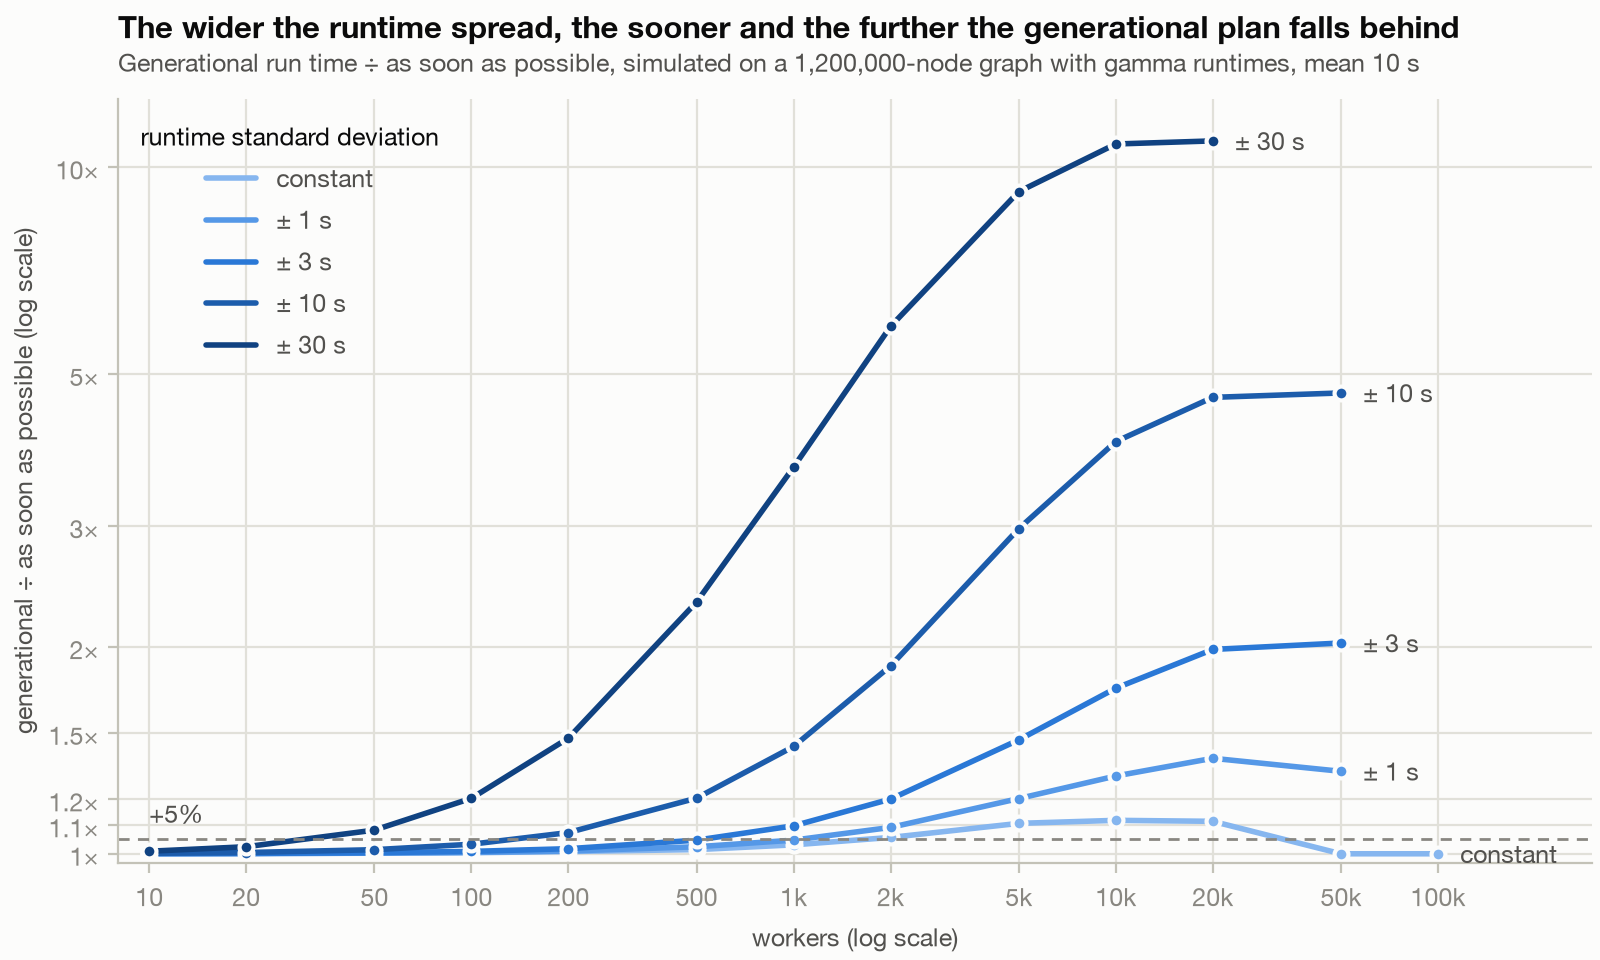
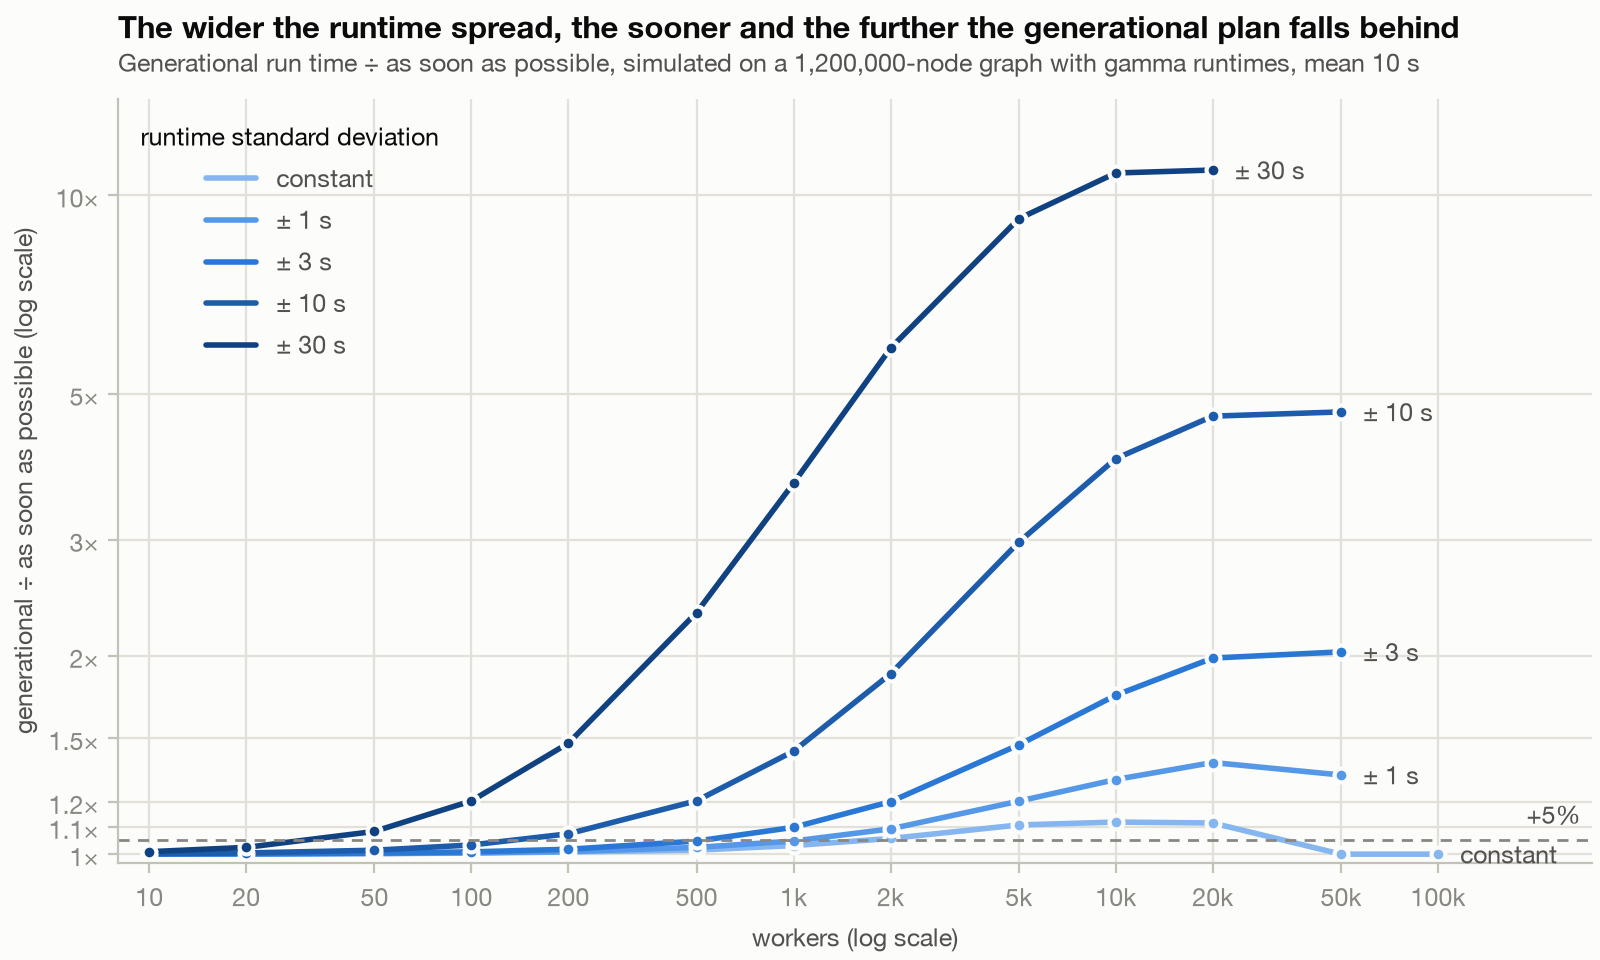
runtime spread on smaller graphs, scaling note

diff --git a/src/dag_experiments/visualization/evaluation.py b/src/dag_experiments/visualization/evaluation.py
@@ -1,6 +1,7 @@
 """Charts of the evaluation: a compiled generational plan versus evaluating at runtime."""
 
 import argparse
+from dataclasses import replace
 from pathlib import Path
 
 import matplotlib
@@ -8,6 +9,7 @@ import matplotlib
 matplotlib.use("Agg")
 
 import matplotlib.pyplot as plt
+from matplotlib.axes import Axes
 from matplotlib.figure import Figure
 from matplotlib.lines import Line2D
 from matplotlib.ticker import FixedLocator, FuncFormatter, NullLocator
@@ -15,6 +17,7 @@ from matplotlib.ticker import FixedLocator, FuncFormatter, NullLocator
 from dag_experiments.evaluation.simulation import Makespans, gamma_runtimes, worker_sweep
 from dag_experiments.synthetic.generator import BASELINE, generate
 from dag_experiments.visualization.style import (
+    INK,
     INK_MUTED,
     INK_SECONDARY,
     SURFACE,
@@ -26,41 +29,19 @@ SPREAD_MEAN = 10.0
 SPREAD_SDS: list[float] = [0, 1, 3, 10, 30]
 # Ordinal steps of one blue, light to dark: the wider the spread, the darker the line.
 SPREAD_COLORS = ["#86b6ef", "#5598e7", "#2a78d6", "#1c5cab", "#104281"]
+SMALLER_SIZES = [400_000, 40_000]
+# Shared by every runtime spread chart, so charts of different graph sizes compare directly
+WORKER_RANGE = (8, 300_000)
+RATIO_RANGE = (0.97, 14)
 
 
 def runtime_spread(sweeps: dict[float, list[Makespans]], num_nodes: int, mean: float) -> Figure:
     fig, ax = plt.subplots(figsize=(8, 4.8), layout="constrained")
-    labels = {sd: "constant" if sd == 0 else f"± {sd:g} s" for sd in sweeps}
-    for color, (sd, sweep) in zip(SPREAD_COLORS, sweeps.items()):
-        workers = [point.workers for point in sweep]
-        ratios = [point.generational / point.asap for point in sweep]
-        ax.plot(workers, ratios, color=color, marker="o", markersize=5, markeredgecolor=SURFACE,
-                markeredgewidth=1.5)
-        ax.annotate(labels[sd], (workers[-1], ratios[-1]), (8, 0), textcoords="offset points",
-                    va="center", color=INK_SECONDARY)
-
-    first_workers = min(sweep[0].workers for sweep in sweeps.values())
-    last_workers = max(sweep[-1].workers for sweep in sweeps.values())
-    ax.axhline(1.05, color=INK_MUTED, linewidth=1, linestyle=(0, (4, 3)))
-    ax.annotate("+5%", (first_workers, 1.05), (0, 4), textcoords="offset points",
-                va="bottom", color=INK_SECONDARY)
-    ax.set_xscale("log")
-    ax.set_xlim(first_workers * 0.8, last_workers * 3)
-    ax.xaxis.set_major_locator(FixedLocator(_worker_ticks(first_workers, last_workers)))
-    ax.xaxis.set_major_formatter(FuncFormatter(lambda value, _: _compact(value)))
-    ax.xaxis.set_minor_locator(NullLocator())
-    # A log scale shows the small gaps where the lines start to part as clearly as the large ones.
-    top = max(point.generational / point.asap for sweep in sweeps.values() for point in sweep) * 1.15
-    ax.set_yscale("log")
-    ax.set_ylim(0.97, top)
-    ax.yaxis.set_major_locator(FixedLocator([t for t in (1, 1.1, 1.2, 1.5, 2, 3, 5, 10, 20) if t <= top]))
-    ax.yaxis.set_major_formatter(FuncFormatter(lambda value, _: f"{value:g}×"))
-    ax.yaxis.set_minor_locator(NullLocator())
-    ax.set_xlabel("workers (log scale)")
+    _draw_spread(ax, sweeps, _worker_ticks(10, 100_000))
     ax.set_ylabel("generational ÷ as soon as possible (log scale)")
     # Plain lines in the legend: with the markers' rings they would look dashed.
     ax.legend(
-        handles=[Line2D([], [], color=color, label=labels[sd]) for color, sd in zip(SPREAD_COLORS, sweeps)],
+        handles=[Line2D([], [], color=color, label=_spread_label(sd)) for color, sd in zip(SPREAD_COLORS, sweeps)],
         title="runtime standard deviation",
         loc="upper left",
     )
@@ -71,6 +52,52 @@ def runtime_spread(sweeps: dict[float, list[Makespans]], num_nodes: int, mean: f
         f"with gamma runtimes, mean {mean:g} s",
     )
     return fig
+
+
+def smaller_graphs(sweeps_by_size: dict[int, dict[float, list[Makespans]]]) -> Figure:
+    fig, axes = plt.subplots(1, len(sweeps_by_size), figsize=(10, 3.8), layout="constrained", sharey=True)
+    for ax, (num_nodes, sweeps) in zip(axes, sweeps_by_size.items()):
+        # Only powers of ten fit under the narrower panels.
+        _draw_spread(ax, sweeps, [10, 100, 1000, 10_000, 100_000])
+        ax.set_title(f"{num_nodes:,} nodes", loc="left", fontsize=10, fontweight="bold", color=INK)
+    axes[0].set_ylabel("generational ÷ as soon as possible")
+    fig.suptitle(
+        "On smaller graphs, the same curves sit at fewer workers",
+        x=0.01, ha="left", fontsize=11, fontweight="bold", color=INK,
+    )
+    return fig
+
+
+def _draw_spread(ax: Axes, sweeps: dict[float, list[Makespans]], worker_ticks: list[int]) -> None:
+    """One line per runtime spread: the generational plan's run time ÷ as soon as possible's."""
+    for color, (sd, sweep) in zip(SPREAD_COLORS, sweeps.items()):
+        workers = [point.workers for point in sweep]
+        ratios = [point.generational / point.asap for point in sweep]
+        ax.plot(workers, ratios, color=color, marker="o", markersize=5, markeredgecolor=SURFACE,
+                markeredgewidth=1.5)
+        ax.annotate(_spread_label(sd), (workers[-1], ratios[-1]), (8, 0), textcoords="offset points",
+                    va="center", color=INK_SECONDARY)
+
+    ax.axhline(1.05, color=INK_MUTED, linewidth=1, linestyle=(0, (4, 3)))
+    # Labeled at the right end, past where the sweeps stop
+    ax.annotate("+5%", (WORKER_RANGE[1], 1.05), (-4, 4), textcoords="offset points", ha="right",
+                va="bottom", color=INK_SECONDARY)
+    ax.set_xscale("log")
+    ax.set_xlim(*WORKER_RANGE)
+    ax.xaxis.set_major_locator(FixedLocator(worker_ticks))
+    ax.xaxis.set_major_formatter(FuncFormatter(lambda value, _: _compact(value)))
+    ax.xaxis.set_minor_locator(NullLocator())
+    # A log scale shows the small gaps where the lines start to part as clearly as the large ones.
+    ax.set_yscale("log")
+    ax.set_ylim(*RATIO_RANGE)
+    ax.yaxis.set_major_locator(FixedLocator([1, 1.1, 1.2, 1.5, 2, 3, 5, 10]))
+    ax.yaxis.set_major_formatter(FuncFormatter(lambda value, _: f"{value:g}×"))
+    ax.yaxis.set_minor_locator(NullLocator())
+    ax.set_xlabel("workers (log scale)")
+
+
+def _spread_label(sd: float) -> str:
+    return "constant" if sd == 0 else f"± {sd:g} s"
 
 
 def _worker_ticks(first: int, last: int) -> list[int]:
@@ -90,21 +117,33 @@ def main() -> None:
     parser = argparse.ArgumentParser(description="Draw the charts of the evaluation")
     parser.add_argument("--output", type=Path, default=Path("docs/images"))
     parser.add_argument("--seed", type=int, default=0)
+    parser.add_argument("--only", choices=["runtime_spread", "smaller_graphs"])
     args = parser.parse_args()
 
     apply_style()
-    # The baseline graph at several runtime spreads, against the number of workers
-    dag = generate(BASELINE, args.seed)
+    args.output.mkdir(parents=True, exist_ok=True)
+    if args.only in (None, "runtime_spread"):
+        sweeps = _spread_sweeps(BASELINE.nodes, args.seed)
+        _save(runtime_spread(sweeps, BASELINE.nodes, SPREAD_MEAN), args.output / "runtime_spread.png")
+    if args.only in (None, "smaller_graphs"):
+        sweeps_by_size = {size: _spread_sweeps(size, args.seed) for size in SMALLER_SIZES}
+        _save(smaller_graphs(sweeps_by_size), args.output / "runtime_spread_smaller_graphs.png")
+
+
+def _spread_sweeps(num_nodes: int, seed: int) -> dict[float, list[Makespans]]:
+    """A worker sweep per runtime spread, on a graph of `num_nodes` nodes."""
+    dag = generate(replace(BASELINE, nodes=num_nodes), seed)
     edges = list(zip(dag.parents.tolist(), dag.children.tolist()))
-    sweeps = {
-        sd: worker_sweep(edges, dag.num_nodes, gamma_runtimes(dag.num_nodes, SPREAD_MEAN, sd, args.seed))[0]
+    return {
+        sd: worker_sweep(edges, num_nodes, gamma_runtimes(num_nodes, SPREAD_MEAN, sd, seed))[0]
         for sd in SPREAD_SDS
     }
-    figure = runtime_spread(sweeps, dag.num_nodes, SPREAD_MEAN)
-    args.output.mkdir(parents=True, exist_ok=True)
-    figure.savefig(args.output / "runtime_spread.png", dpi=200)
-    print(args.output / "runtime_spread.png")
 
+
+def _save(figure: Figure, path: Path) -> None:
+    figure.savefig(path, dpi=200)
+    plt.close(figure)
+    print(path)
 
 if __name__ == "__main__":
     main()

diff --git a/readme.md b/readme.md
@@ -53,7 +53,7 @@ The two ways to run a DAG, both in plain Python in `src/dag_experiments/evaluati
 - **Compiled generational plan**: before the run, Kahn's algorithm sorts the nodes into
   generations. Workers then run the plan generation by generation: a generation starts once the
   previous one has finished.
-- **As soon as possible**: a dict holds every node's dependents and its unfinished dependencies.
+- **As soon as possible**: Convert the graph into a representation that can be used easily at runtime: a dict holds every node's dependents and its unfinished dependencies.
   When a node completes, it is popped from its dependents' dependencies, and a dependent whose
   last dependency was popped can run right away.
 
@@ -87,14 +87,22 @@ once that list is gone, including the node ids it shares with it.
 A simulation runs the 1.2M-node baseline graph with a fixed number of workers. Every node gets a
 runtime from a gamma distribution with a mean of 10 s, and the chart varies its standard
 deviation: from 0, where every node takes exactly 10 s, to ±30 s, where 64% of the nodes take
-under a second and 5% over a minute. At ±3 s it has the mean and standard deviation of a Poisson
-distribution. Both approaches get the same runtimes. A worker runs one node at a time, and
+under a second and 5% over a minute. Both approaches get the same runtimes. A worker runs one node at a time, and
 handing out work costs nothing. Within a generation, each node goes to the first free worker; as
 soon as possible hands ready nodes to free workers in the order they became ready. The worker
 counts go 10, 20, 50, ... and stop at the first one where as soon as possible is within 1% of its
 run time with a worker for every node.
 
 ![The generational plan's run time divided by as soon as possible's, against workers, per runtime spread](docs/images/runtime_spread.png)
+
+> [!NOTE]
+> The worker counts are large because the graph is: the point where the plan starts to fall behind
+> grows with the graph. That is also why the chart shows a ratio rather than absolute run times.
+> On smaller graphs the curves keep their shape at fewer workers. At ±3 s, the plan falls 5%
+> behind at about 500 workers for 1.2M nodes, between 200 and 500 for 400k nodes, and between
+> 20 and 50 for 40k nodes.
+
+![The same chart for graphs of 400,000 and 40,000 nodes](docs/images/runtime_spread_smaller_graphs.png)
 
 - **With few workers, the plan costs little.** The workers are the bottleneck: 10 workers take
   about 333 hours either way. The plan stays within about 5% of as soon as possible up to 500
@@ -157,7 +165,8 @@ uv run python -m dag_experiments.evaluation simulate --runtime-sd 0 1 3 10 30
 # Redraw the charts in docs/images from the baseline graph
 uv run python -m dag_experiments.visualization.charts
 
-# Redraw the runtime spread chart (runs the simulations, several minutes)
+# Redraw the runtime spread charts, for the baseline and two smaller graphs (runs the
+# simulations, several minutes)
 uv run python -m dag_experiments.visualization.evaluation
 ```
 
